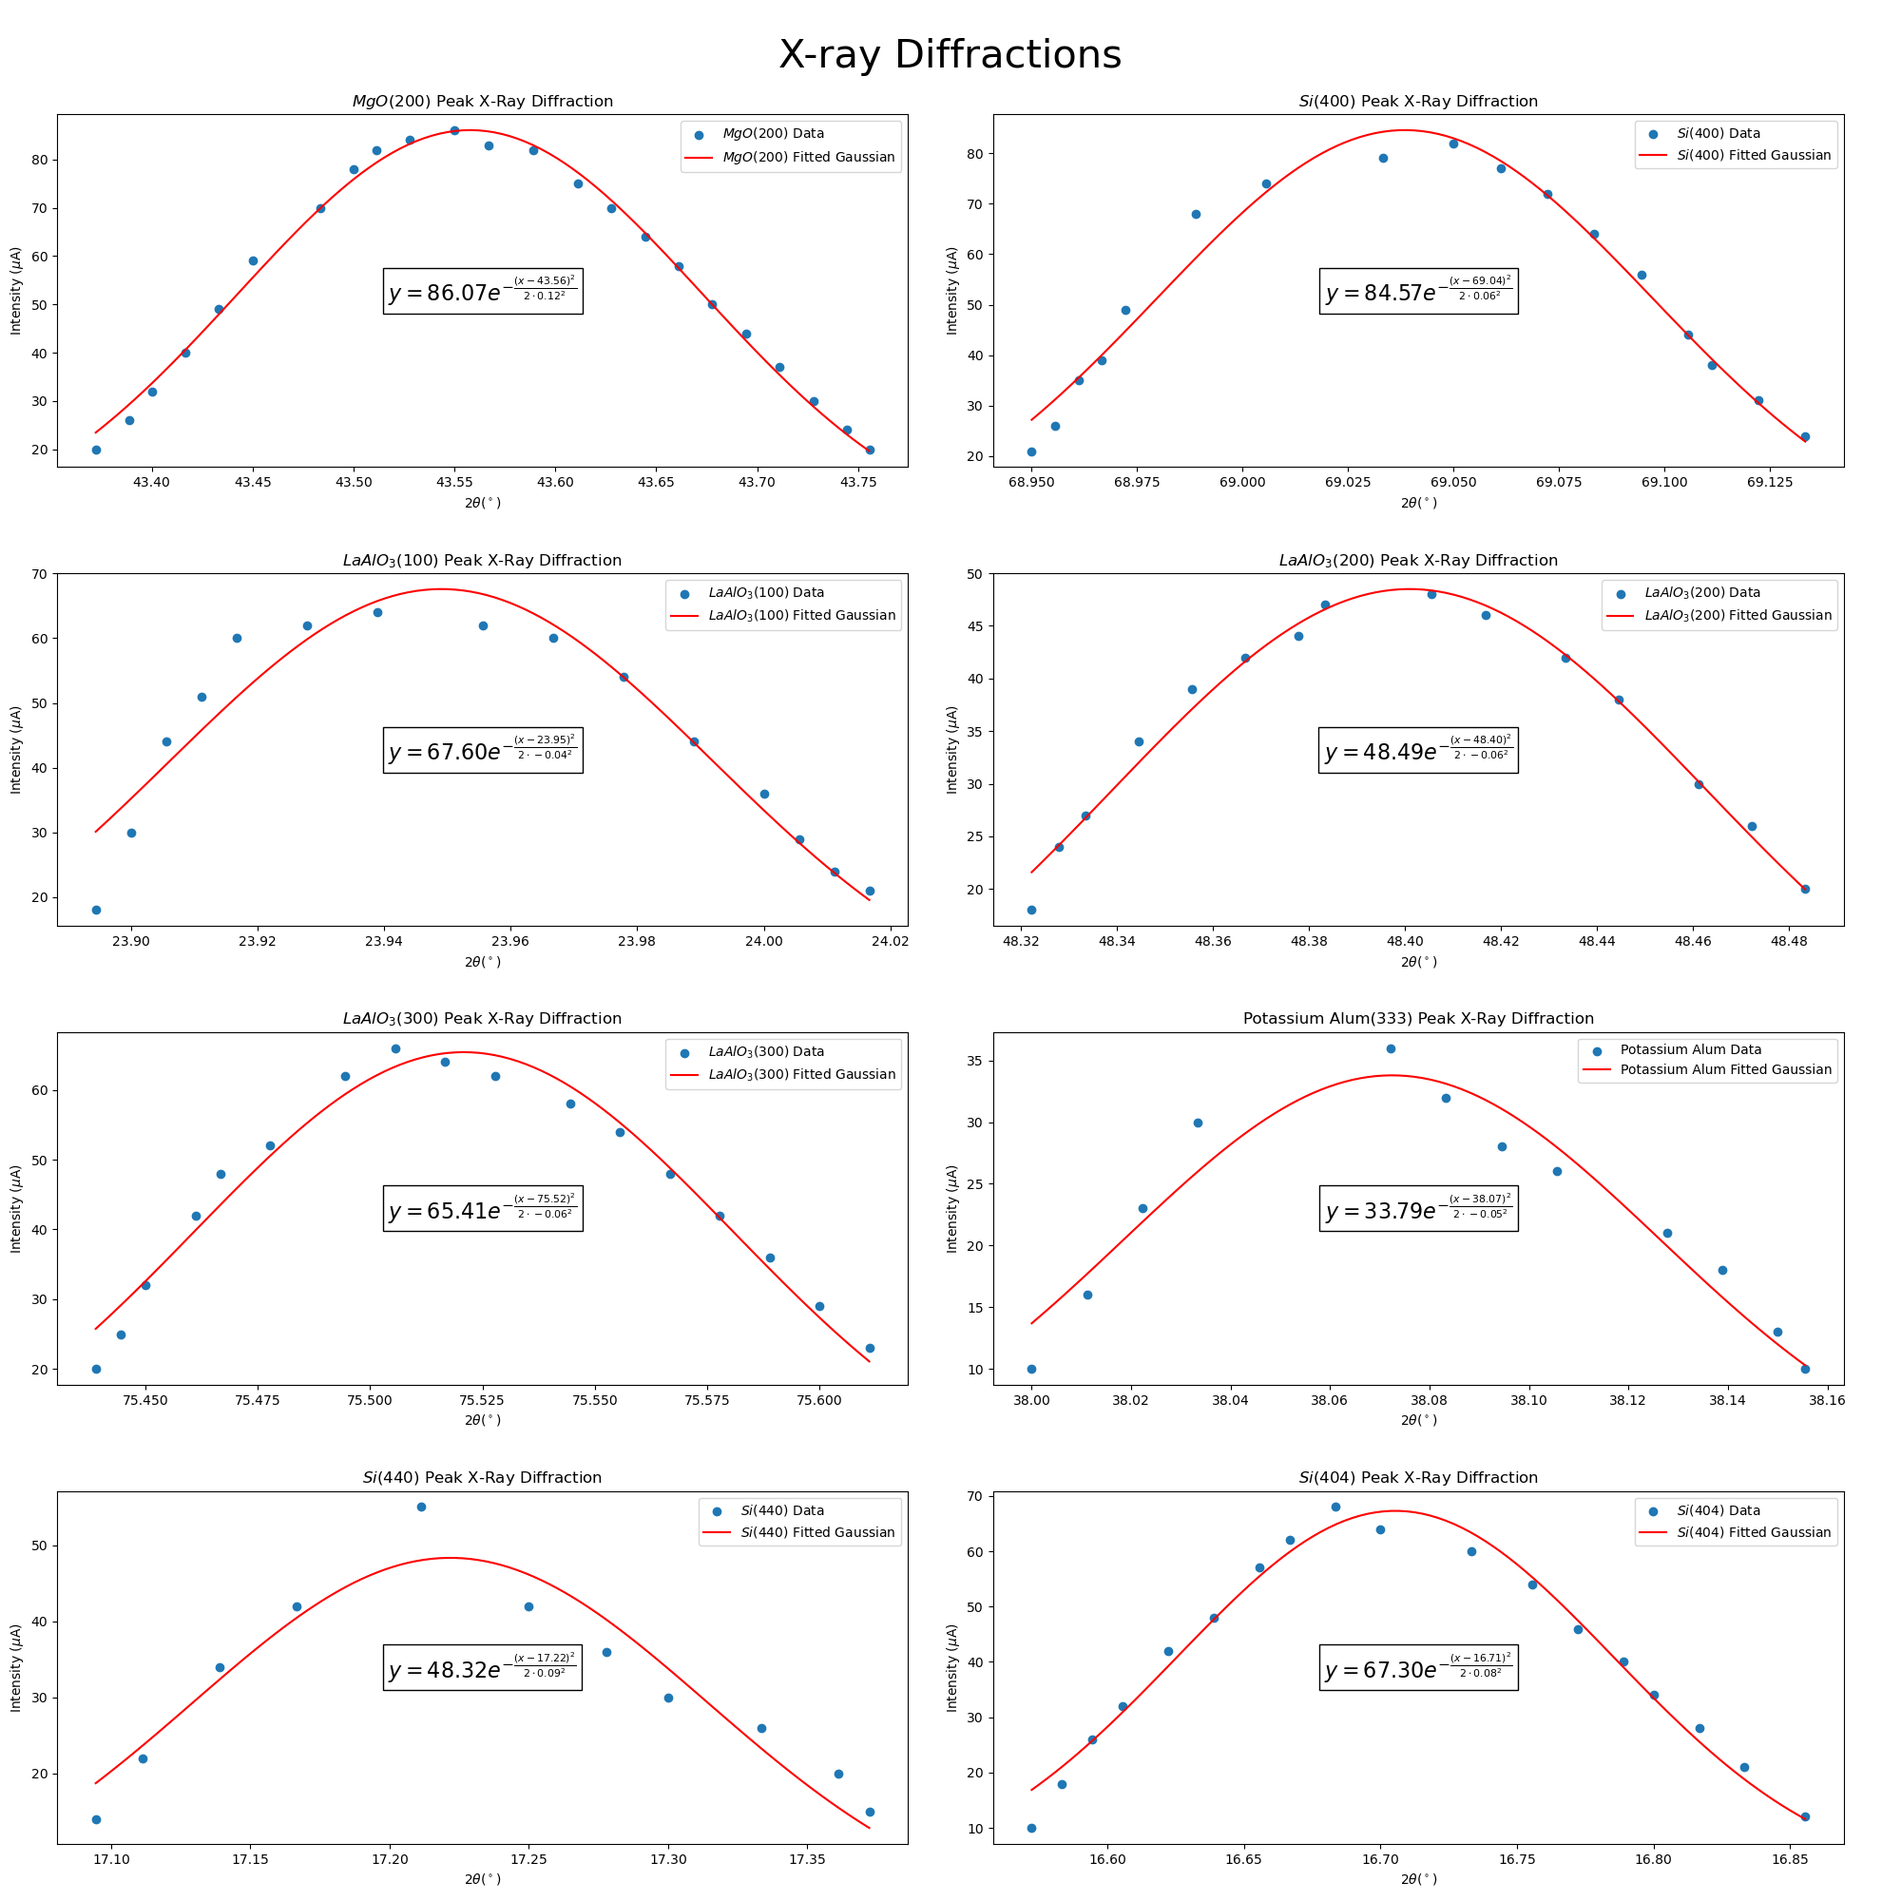
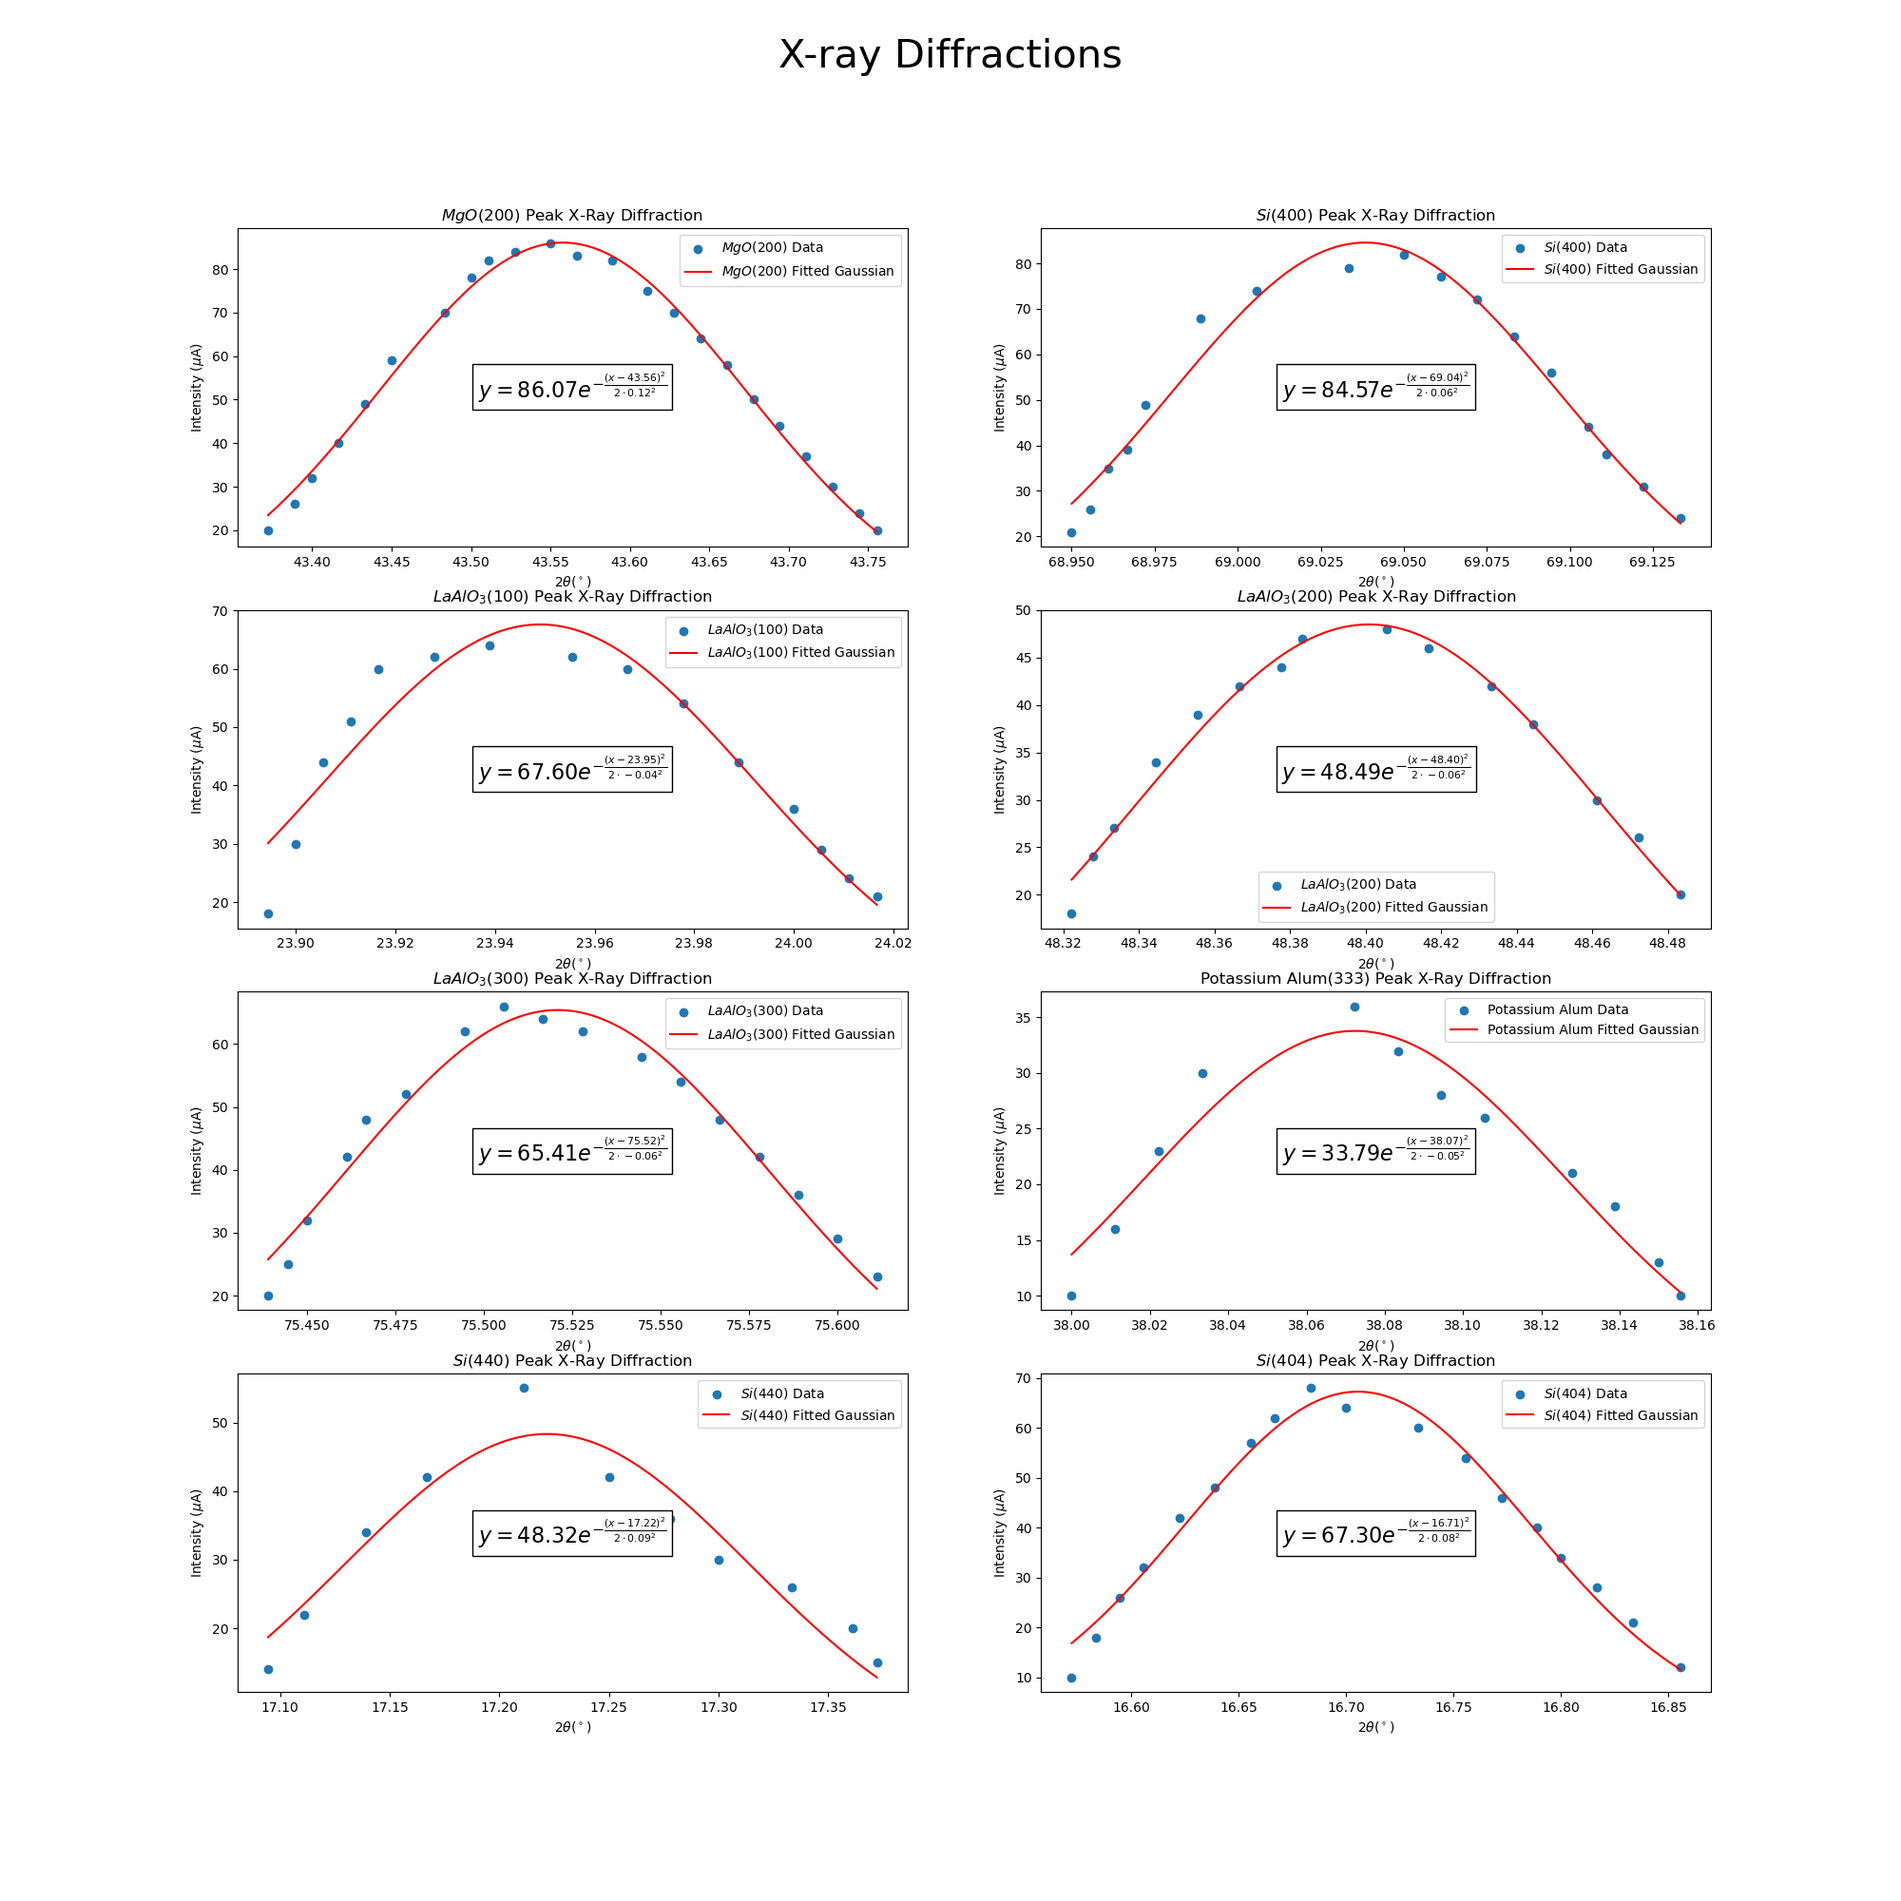
split figures

diff --git a/A5/analysis/FOEP_A5.py b/A5/analysis/FOEP_A5.py
@@ -125,6 +125,8 @@ df = [pd.read_csv(datasource[0]), pd.read_csv(datasource[1])]
 
 # 8 plots
 fig, axs = plt.subplots(4, 2, figsize = (20, 20))
+fig1, axs1 = plt.subplots(2, 2, figsize = (20, 10))
+fig2, axs2 = plt.subplots(2, 2, figsize = (20, 10))
 plt.subplots_adjust(left = 0.03, bottom = 0.03, top = 0.94, right = 0.97, wspace = 0.1, hspace = 0.3)
 
 
@@ -185,20 +187,28 @@ print(f"The crystallite size of MgO(200) is {MgO200[11]:.2f} angstrom.\n")
 axs[0][0].scatter(MgO200[0], MgO200[1], label="$MgO(200)$ Data")
 x_space = np.linspace(MgO200[0][0], MgO200[0][-1], 100)
 axs[0][0].plot(x_space, gaussian(x_space, *MgO200[4]), color="red", label="$MgO(200)$ Fitted Gaussian")
+axs1[0][0].scatter(MgO200[0], MgO200[1], label="$MgO(200)$ Data")
+x_space = np.linspace(MgO200[0][0], MgO200[0][-1], 100)
+axs1[0][0].plot(x_space, gaussian(x_space, *MgO200[4]), color="red", label="$MgO(200)$ Fitted Gaussian")
 
 # Labelling x, y
 axs[0][0].set_xlabel(r"$2 \theta (^\circ)$")
 axs[0][0].set_ylabel(r"Intensity ($\mu$A)")
+axs1[0][0].set_xlabel(r"$2 \theta (^\circ)$")
+axs1[0][0].set_ylabel(r"Intensity ($\mu$A)")
 
 # Equation Display
 lx, rx, ly, ry = *axs[0][0].get_xlim(), *axs[0][0].get_ylim()
 dx, dy = (rx - lx), (ry - ly)
 axs[0][0].set_title(r"$MgO(200)$ Peak X-Ray Diffraction")
+axs1[0][0].set_title(r"$MgO(200)$ Peak X-Ray Diffraction")
 equation = f'$y = {MgO200[4][0]:.2f} e^{{-\\frac{{(x - {MgO200[4][1]:.2f})^{{2}} }}{{ 2 \\cdot {MgO200[4][2]:.2f}^{{2}}}}}}$'
 axs[0][0].text(lx + 0.5 * dx, ry - 0.5 * dy, equation, verticalalignment = 'center', horizontalalignment = 'center', fontsize = 16, bbox = {'facecolor': 'white'})
+axs1[0][0].text(lx + 0.5 * dx, ry - 0.5 * dy, equation, verticalalignment = 'center', horizontalalignment = 'center', fontsize = 16, bbox = {'facecolor': 'white'})
 
 # Legend
 axs[0][0].legend()
+axs1[0][0].legend()
 
 ### Si(400) ###
 
@@ -226,16 +236,23 @@ print("The distance between planes of Si(400) is", Si400[9], "angstrom.")
 print(f"The FWHM of Si(400) is {Si400[10]:.3f} degrees.")
 print(f"The crystallite size of Si(400) is {Si400[11]:.2f} angstrom.\n")
 axs[0][1].scatter(Si400[0], Si400[1], label="$Si(400)$ Data")
+axs1[0][1].scatter(Si400[0], Si400[1], label="$Si(400)$ Data")
 x_space = np.linspace(Si400[0][0], Si400[0][-1], 100)
 axs[0][1].plot(x_space, gaussian(x_space, *Si400[4]), color="red", label="$Si(400)$ Fitted Gaussian")
+axs1[0][1].plot(x_space, gaussian(x_space, *Si400[4]), color="red", label="$Si(400)$ Fitted Gaussian")
 axs[0][1].set_xlabel(r"$2 \theta (^\circ)$")
+axs1[0][1].set_xlabel(r"$2 \theta (^\circ)$")
 axs[0][1].set_ylabel(r"Intensity ($\mu$A)")
+axs1[0][1].set_ylabel(r"Intensity ($\mu$A)")
 axs[0][1].set_title(r"$Si(400)$ Peak X-Ray Diffraction")
+axs1[0][1].set_title(r"$Si(400)$ Peak X-Ray Diffraction")
 lx, rx, ly, ry = *axs[0][1].get_xlim(), *axs[0][1].get_ylim()
 dx, dy = (rx - lx), (ry - ly)
 equation = f'$y = {Si400[4][0]:.2f} e^{{-\\frac{{(x - {Si400[4][1]:.2f})^{{2}} }}{{ 2 \\cdot {Si400[4][2]:.2f}^{{2}}}}}}$'
 axs[0][1].text(lx + 0.5 * dx, ry - 0.5 * dy, equation, verticalalignment = 'center', horizontalalignment = 'center', fontsize = 16, bbox = {'facecolor': 'white'})
+axs1[0][1].text(lx + 0.5 * dx, ry - 0.5 * dy, equation, verticalalignment = 'center', horizontalalignment = 'center', fontsize = 16, bbox = {'facecolor': 'white'})
 axs[0][1].legend()
+axs1[0][1].legend()
 
 ### LaAlO3(100) ###
 
@@ -263,17 +280,23 @@ print("The distance between planes of LaAlO3(100) is", LaAlO3100[9], "angstrom."
 print(f"The FWHM of LaAlO3(100) is {LaAlO3100[10]:.3f} degrees.")
 print(f"The crystallite size of LaAlO3(100) is {LaAlO3100[11]:.2f} angstrom.\n")
 axs[1][0].scatter(LaAlO3100[0], LaAlO3100[1], label="$LaAlO_3(100)$ Data")
+axs1[1][0].scatter(LaAlO3100[0], LaAlO3100[1], label="$LaAlO_3(100)$ Data")
 x_space = np.linspace(LaAlO3100[0][0], LaAlO3100[0][-1], 100)
 axs[1][0].plot(x_space, gaussian(x_space, *LaAlO3100[4]), color="red", label="$LaAlO_3(100)$ Fitted Gaussian")
+axs1[1][0].plot(x_space, gaussian(x_space, *LaAlO3100[4]), color="red", label="$LaAlO_3(100)$ Fitted Gaussian")
 axs[1][0].set_xlabel(r"$2 \theta (^\circ)$")
+axs1[1][0].set_xlabel(r"$2 \theta (^\circ)$")
 axs[1][0].set_ylabel(r"Intensity ($\mu$A)")
+axs1[1][0].set_ylabel(r"Intensity ($\mu$A)")
 axs[1][0].set_title(r"$LaAlO_3(100)$ Peak X-Ray Diffraction")
+axs1[1][0].set_title(r"$LaAlO_3(100)$ Peak X-Ray Diffraction")
 lx, rx, ly, ry = *axs[1][0].get_xlim(), *axs[1][0].get_ylim()
 dx, dy = (rx - lx), (ry - ly)
 equation = f'$y = {LaAlO3100[4][0]:.2f} e^{{-\\frac{{(x - {LaAlO3100[4][1]:.2f})^{{2}} }}{{ 2 \\cdot {LaAlO3100[4][2]:.2f}^{{2}}}}}}$'
 axs[1][0].text(lx + 0.5 * dx, ry - 0.5 * dy, equation, verticalalignment = 'center', horizontalalignment = 'center', fontsize = 16, bbox = {'facecolor': 'white'})
-
+axs1[1][0].text(lx + 0.5 * dx, ry - 0.5 * dy, equation, verticalalignment = 'center', horizontalalignment = 'center', fontsize = 16, bbox = {'facecolor': 'white'})
 axs[1][0].legend()
+axs1[1][0].legend()
 
 ### LaAlO3(200) ###
 
@@ -301,16 +324,23 @@ print("The distance between planes of LaAlO3(200) is", LaAlO3200[9], "angstrom."
 print(f"The FWHM of LaAlO3(300) is {LaAlO3200[10]:.3f} degrees.")
 print(f"The crystallite size of LaAlO3(200) is {LaAlO3200[11]:.2f} angstrom.\n")
 axs[1][1].scatter(LaAlO3200[0], LaAlO3200[1], label="$LaAlO_3(200)$ Data")
+axs1[1][1].scatter(LaAlO3200[0], LaAlO3200[1], label="$LaAlO_3(200)$ Data")
 x_space = np.linspace(LaAlO3200[0][0], LaAlO3200[0][-1], 100)
 axs[1][1].plot(x_space, gaussian(x_space, *LaAlO3200[4]), color="red", label="$LaAlO_3(200)$ Fitted Gaussian")
+axs1[1][1].plot(x_space, gaussian(x_space, *LaAlO3200[4]), color="red", label="$LaAlO_3(200)$ Fitted Gaussian")
 axs[1][1].set_xlabel(r"$2 \theta (^\circ)$")
+axs1[1][1].set_xlabel(r"$2 \theta (^\circ)$")
 axs[1][1].set_ylabel(r"Intensity ($\mu$A)")
+axs1[1][1].set_ylabel(r"Intensity ($\mu$A)")
 axs[1][1].set_title(r"$LaAlO_3(200)$ Peak X-Ray Diffraction")
+axs1[1][1].set_title(r"$LaAlO_3(200)$ Peak X-Ray Diffraction")
 lx, rx, ly, ry = *axs[1][1].get_xlim(), *axs[1][1].get_ylim()
 dx, dy = (rx - lx), (ry - ly)
 equation = f'$y = {LaAlO3200[4][0]:.2f} e^{{-\\frac{{(x - {LaAlO3200[4][1]:.2f})^{{2}} }}{{ 2 \\cdot {LaAlO3200[4][2]:.2f}^{{2}}}}}}$'
 axs[1][1].text(lx + 0.5 * dx, ry - 0.5 * dy, equation, verticalalignment = 'center', horizontalalignment = 'center', fontsize = 16, bbox = {'facecolor': 'white'})
+axs1[1][1].text(lx + 0.5 * dx, ry - 0.5 * dy, equation, verticalalignment = 'center', horizontalalignment = 'center', fontsize = 16, bbox = {'facecolor': 'white'})
 axs[1][1].legend()
+axs1[1][1].legend()
 
 ### LaAlO3(300) ###
 
@@ -338,16 +368,23 @@ print("The distance between planes of LaAlO3(300) is", LaAlO3300[9], "angstrom."
 print(f"The FWHM of LaAlO3(300) is {LaAlO3300[10]:.3f} degrees.")
 print(f"The crystallite size of LaAlO3(300) is {LaAlO3300[11]:.2f} angstrom.\n")
 axs[2][0].scatter(LaAlO3300[0], LaAlO3300[1], label="$LaAlO_3(300)$ Data")
+axs2[0][0].scatter(LaAlO3300[0], LaAlO3300[1], label="$LaAlO_3(300)$ Data")
 x_space = np.linspace(LaAlO3300[0][0], LaAlO3300[0][-1], 100)
 axs[2][0].plot(x_space, gaussian(x_space, *LaAlO3300[4]), color="red", label="$LaAlO_3(300)$ Fitted Gaussian")
+axs2[0][0].plot(x_space, gaussian(x_space, *LaAlO3300[4]), color="red", label="$LaAlO_3(300)$ Fitted Gaussian")
 axs[2][0].set_xlabel(r"$2 \theta (^\circ)$")
+axs2[0][0].set_xlabel(r"$2 \theta (^\circ)$")
 axs[2][0].set_ylabel(r"Intensity ($\mu$A)")
+axs2[0][0].set_ylabel(r"Intensity ($\mu$A)")
 axs[2][0].set_title(r"$LaAlO_3(300)$ Peak X-Ray Diffraction")
+axs2[0][0].set_title(r"$LaAlO_3(300)$ Peak X-Ray Diffraction")
 lx, rx, ly, ry = *axs[2][0].get_xlim(), *axs[2][0].get_ylim()
 dx, dy = (rx - lx), (ry - ly)
 equation = f'$y = {LaAlO3300[4][0]:.2f} e^{{-\\frac{{(x - {LaAlO3300[4][1]:.2f})^{{2}} }}{{ 2 \\cdot {LaAlO3300[4][2]:.2f}^{{2}}}}}}$'
 axs[2][0].text(lx + 0.5 * dx, ry - 0.5 * dy, equation, verticalalignment = 'center', horizontalalignment = 'center', fontsize = 16, bbox = {'facecolor': 'white'})
+axs2[0][0].text(lx + 0.5 * dx, ry - 0.5 * dy, equation, verticalalignment = 'center', horizontalalignment = 'center', fontsize = 16, bbox = {'facecolor': 'white'})
 axs[2][0].legend()
+axs2[0][0].legend()
 
 ### Potassium Alum ###
 
@@ -380,16 +417,23 @@ print("The distance between planes of Potassium Alum(333) is", KAS[9], "angstrom
 print(f"The FWHM of Potassium Alum(333) is {KAS[10]:.3f} degrees.")
 print(f"The crystallite size of Potassium Alum(333) is {KAS[11]:.2f} angstrom.\n")
 axs[2][1].scatter(KAS[0], KAS[1], label="Potassium Alum Data")
+axs2[0][1].scatter(KAS[0], KAS[1], label="Potassium Alum Data")
 x_space = np.linspace(KAS[0][0], KAS[0][-1], 100)
 axs[2][1].plot(x_space, gaussian(x_space, *KAS[4]), color="red", label="Potassium Alum Fitted Gaussian")
+axs2[0][1].plot(x_space, gaussian(x_space, *KAS[4]), color="red", label="Potassium Alum Fitted Gaussian")
 axs[2][1].set_xlabel(r"$2 \theta (^\circ)$")
+axs2[0][1].set_xlabel(r"$2 \theta (^\circ)$")
 axs[2][1].set_ylabel(r"Intensity ($\mu$A)")
+axs2[0][1].set_ylabel(r"Intensity ($\mu$A)")
 axs[2][1].set_title(r"Potassium Alum(333) Peak X-Ray Diffraction")
+axs2[0][1].set_title(r"Potassium Alum(333) Peak X-Ray Diffraction")
 lx, rx, ly, ry = *axs[2][1].get_xlim(), *axs[2][1].get_ylim()
 dx, dy = (rx - lx), (ry - ly)
 equation = f'$y = {KAS[4][0]:.2f} e^{{-\\frac{{(x - {KAS[4][1]:.2f})^{{2}} }}{{ 2 \\cdot {KAS[4][2]:.2f}^{{2}}}}}}$'
 axs[2][1].text(lx + 0.5 * dx, ry - 0.5 * dy, equation, verticalalignment = 'center', horizontalalignment = 'center', fontsize = 16, bbox = {'facecolor': 'white'})
+axs2[0][1].text(lx + 0.5 * dx, ry - 0.5 * dy, equation, verticalalignment = 'center', horizontalalignment = 'center', fontsize = 16, bbox = {'facecolor': 'white'})
 axs[2][1].legend()
+axs2[0][1].legend()
 
 ### Si(440) ###
 
@@ -423,16 +467,23 @@ print("The distance between planes of Si(440) is", Si440[9], "angstrom.")
 print(f"The FWHM of Si(440) is {Si440[10]:.3f} degrees.")
 print(f"The crystallite size of Si(440) is {Si440[11]:.2f} angstrom.\n")
 axs[3][0].scatter(Si440[0], Si440[1], label="$Si(440)$ Data")
+axs2[1][0].scatter(Si440[0], Si440[1], label="$Si(440)$ Data")
 x_space = np.linspace(Si440[0][0], Si440[0][-1], 100)
 axs[3][0].plot(x_space, gaussian(x_space, *Si440[4]), color="red", label="$Si(440)$ Fitted Gaussian")
+axs2[1][0].plot(x_space, gaussian(x_space, *Si440[4]), color="red", label="$Si(440)$ Fitted Gaussian")
 axs[3][0].set_xlabel(r"$2 \theta (^\circ)$")
+axs2[1][0].set_xlabel(r"$2 \theta (^\circ)$")
 axs[3][0].set_ylabel(r"Intensity ($\mu$A)")
+axs2[1][0].set_ylabel(r"Intensity ($\mu$A)")
 axs[3][0].set_title(r"$Si(440)$ Peak X-Ray Diffraction")
+axs2[1][0].set_title(r"$Si(440)$ Peak X-Ray Diffraction")
 lx, rx, ly, ry = *axs[3][0].get_xlim(), *axs[3][0].get_ylim()
 dx, dy = (rx - lx), (ry - ly)
 equation = f'$y = {Si440[4][0]:.2f} e^{{-\\frac{{(x - {Si440[4][1]:.2f})^{{2}} }}{{ 2 \\cdot {Si440[4][2]:.2f}^{{2}}}}}}$'
 axs[3][0].text(lx + 0.5 * dx, ry - 0.5 * dy, equation, verticalalignment = 'center', horizontalalignment = 'center', fontsize = 16, bbox = {'facecolor': 'white'})
+axs2[1][0].text(lx + 0.5 * dx, ry - 0.5 * dy, equation, verticalalignment = 'center', horizontalalignment = 'center', fontsize = 16, bbox = {'facecolor': 'white'})
 axs[3][0].legend()
+axs2[1][0].legend()
 
 ### Si(404) ###
 
@@ -466,18 +517,29 @@ print("The distance between planes of Si(404) is", Si404[9], "angstrom.")
 print(f"The FWHM of Si(404) is {Si404[10]:.3f} degrees.")
 print(f"The crystallite size of Si(404) is {Si404[11]:.2f} angstrom.\n")
 axs[3][1].scatter(Si404[0], Si404[1], label="$Si(404)$ Data")
+axs2[1][1].scatter(Si404[0], Si404[1], label="$Si(404)$ Data")
 x_space = np.linspace(Si404[0][0], Si404[0][-1], 100)
 axs[3][1].plot(x_space, gaussian(x_space, *Si404[4]), color="red", label="$Si(404)$ Fitted Gaussian")
+axs2[1][1].plot(x_space, gaussian(x_space, *Si404[4]), color="red", label="$Si(404)$ Fitted Gaussian")
 axs[3][1].set_xlabel(r"$2 \theta (^\circ)$")
+axs2[1][1].set_xlabel(r"$2 \theta (^\circ)$")
 axs[3][1].set_ylabel(r"Intensity ($\mu$A)")
+axs2[1][1].set_ylabel(r"Intensity ($\mu$A)")
 axs[3][1].set_title(r"$Si(404)$ Peak X-Ray Diffraction")
+axs2[1][1].set_title(r"$Si(404)$ Peak X-Ray Diffraction")
 lx, rx, ly, ry = *axs[3][1].get_xlim(), *axs[3][1].get_ylim()
 dx, dy = (rx - lx), (ry - ly)
 equation = f'$y = {Si404[4][0]:.2f} e^{{-\\frac{{(x - {Si404[4][1]:.2f})^{{2}} }}{{ 2 \\cdot {Si404[4][2]:.2f}^{{2}}}}}}$'
 axs[3][1].text(lx + 0.5 * dx, ry - 0.5 * dy, equation, verticalalignment = 'center', horizontalalignment = 'center', fontsize = 16, bbox = {'facecolor': 'white'})
+axs2[1][1].text(lx + 0.5 * dx, ry - 0.5 * dy, equation, verticalalignment = 'center', horizontalalignment = 'center', fontsize = 16, bbox = {'facecolor': 'white'})
 axs[3][1].legend()
+axs2[1][1].legend()
 
 # Figure title, saving and demo
 fig.suptitle("X-ray Diffractions", fontsize = 30, y = 0.98)
 fig.savefig("../pics/X-ray_Diffractions.png")
+fig1.suptitle("X-ray Diffractions-1", fontsize = 30, y = 0.98)
+fig1.savefig("../pics/X-ray_Diffractions-1.png")
+fig2.suptitle("X-ray Diffractions-2", fontsize = 30, y = 0.98)
+fig2.savefig("../pics/X-ray_Diffractions-2.png")
 plt.show()
